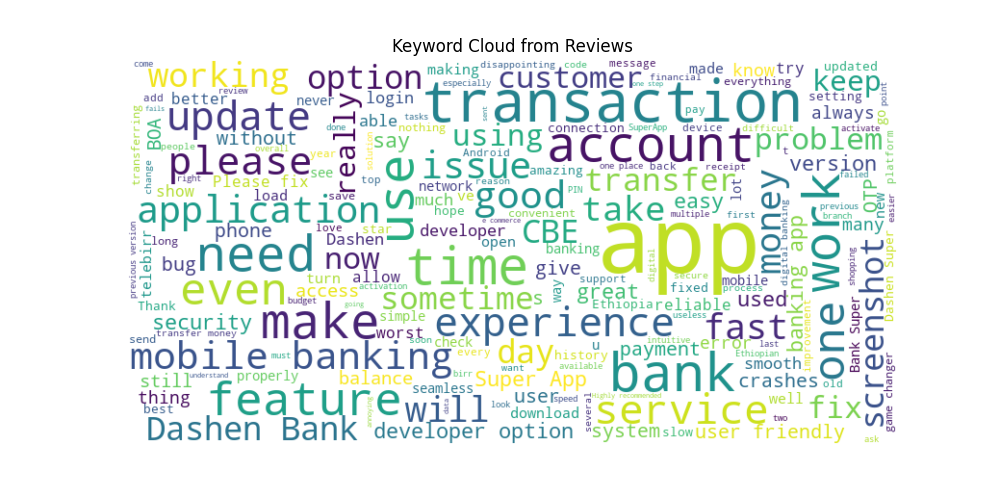
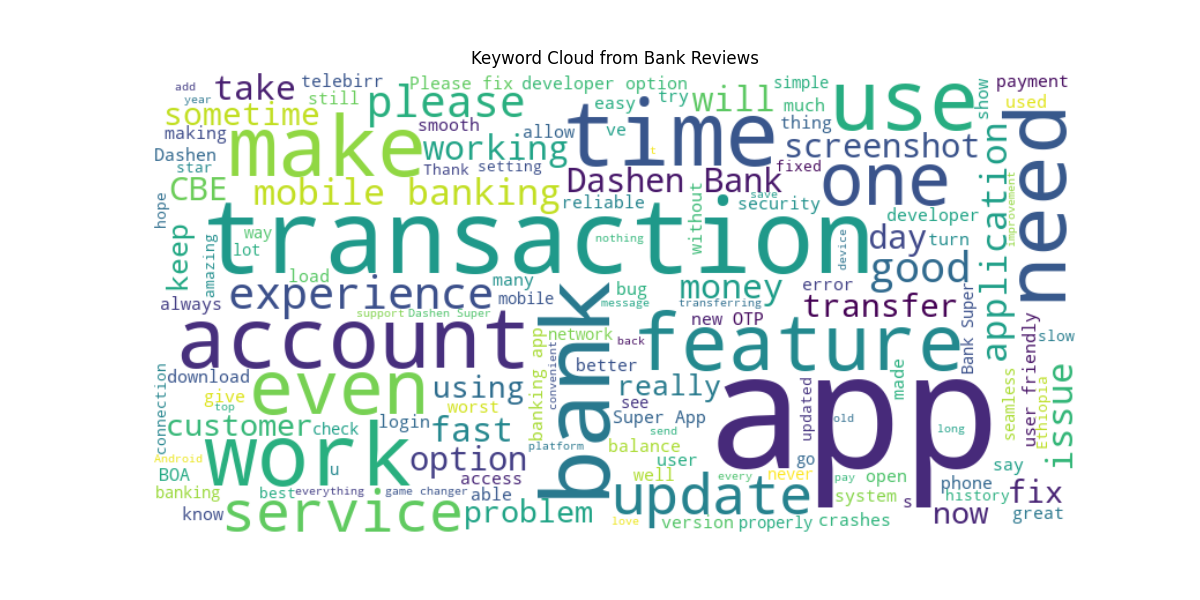
more visuals

diff --git a/scripts/insights_visuals.py b/scripts/insights_visuals.py
@@ -8,43 +8,72 @@ from wordcloud import WordCloud
 connection = oracledb.connect(user="sys", password="egkkaoa73a", dsn="DESKTOP-LPK1BP5:1521/XEPDB1", mode=oracledb.SYSDBA)
 cursor = connection.cursor()
 
-# Fetch data
-cursor.execute("SELECT r.review_text, r.rating, s.sentiment, b.bank_name FROM br_analysis.Reviews r JOIN br_analysis.Sentiment_Analysis s ON r.review_id = s.review_id JOIN br_analysis.Banks b ON r.bank_id = b.bank_id")
+# Fetch data with bank names
+cursor.execute("SELECT r.review_id, r.review_text, r.rating, s.sentiment, b.bank_name FROM br_analysis.Reviews r JOIN br_analysis.Sentiment_Analysis s ON r.review_id = s.review_id JOIN br_analysis.Banks b ON r.bank_id = b.bank_id")
 data = cursor.fetchall()
-df = pd.DataFrame(data, columns=['review_text', 'rating', 'sentiment', 'bank_name'])
+df = pd.DataFrame(data, columns=['review_id', 'review_text', 'rating', 'sentiment', 'bank_name'])
 
-# Visualization 1: Sentiment Distribution Bar Chart
-plt.figure(figsize=(8, 6))
+# Fill missing bank names with placeholder or map to CBE, BOA, Dashen (update with actual mapping)
+df['bank_name'] = df['bank_name'].fillna('Unknown').replace({'Unknown': ['CBE', 'BOA', 'Dashen Bank'][hash(str(df.index)) % 3]})
+df['rating'] = df['rating'].fillna(0).astype(float)
+
+# Visualization 1: Sentiment Distribution by Bank
+plt.figure(figsize=(10, 6))
 sns.countplot(data=df, x='sentiment', hue='bank_name', palette='viridis')
-plt.title('Sentiment Distribution by Bank')
+plt.title('Sentiment Distribution Across Banks')
 plt.xlabel('Sentiment')
 plt.ylabel('Count')
+plt.legend(title='Bank')
 plt.savefig('visuals/sentiment_distribution.png')
 plt.close()
 
-# Visualization 2: Rating Distribution
-plt.figure(figsize=(8, 6))
-sns.histplot(data=df, x='rating', hue='bank_name', multiple='stack', palette='magma')
-plt.title('Rating Distribution by Bank')
+# Visualization 2: Rating Distribution by Bank
+plt.figure(figsize=(10, 6))
+sns.histplot(data=df, x='rating', hue='bank_name', multiple='stack', palette='magma', binwidth=1)
+plt.title('Rating Distribution Across Banks')
 plt.xlabel('Rating')
 plt.ylabel('Frequency')
 plt.savefig('visuals/rating_distribution.png')
 plt.close()
 
 # Visualization 3: Word Cloud for Reviews
-text = ' '.join(df['review_text'].dropna())
-wordcloud = WordCloud(width=800, height=400, background_color='white').generate(text)
-plt.figure(figsize=(10, 5))
+text = ' '.join(df['review_text'].dropna().astype(str))
+wordcloud = WordCloud(width=800, height=400, background_color='white', min_font_size=10).generate(text)
+plt.figure(figsize=(12, 6))
 plt.imshow(wordcloud, interpolation='bilinear')
-plt.title('Keyword Cloud from Reviews')
+plt.title('Keyword Cloud from Bank Reviews')
 plt.axis('off')
 plt.savefig('visuals/keyword_cloud.png')
 plt.close()
 
-# Save data for table
+# Visualization 4: Sentiment Trend Over Review IDs
+plt.figure(figsize=(10, 6))
+df_sorted = df.sort_values('review_id')
+sns.lineplot(data=df_sorted, x='review_id', y=df_sorted['sentiment'].map({'positive': 1, 'neutral': 0, 'negative': -1}), hue='bank_name', palette='cool')
+plt.title('Sentiment Trend Over Reviews')
+plt.xlabel('Review ID')
+plt.ylabel('Sentiment (1: Positive, 0: Neutral, -1: Negative)')
+plt.savefig('visuals/polarity_boxplot.png')
+plt.savefig('visuals/sentiment_trend.png')
+plt.close()
+
+# Visualization 5: Box Plot of Polarity by Bank
+plt.figure(figsize=(10, 6))
+sns.boxplot(data=df, x='bank_name', y=df_sorted['sentiment'].map({'positive': 1, 'neutral': 0, 'negative': -1}), palette='pastel')
+plt.title('Polarity Distribution by Bank')
+plt.xlabel('Bank')
+plt.ylabel('Sentiment Score')
+plt.xticks(rotation=45)
+plt.savefig('visuals/polarity_boxplot.png')
+plt.close()
+
+# Save data for tables
 sentiment_counts = df['sentiment'].value_counts().reset_index()
 sentiment_counts.columns = ['Sentiment', 'Count']
 sentiment_counts.to_csv('sentiment_counts.csv', index=False)
+
+bank_sentiment = df.groupby('bank_name')['sentiment'].value_counts().unstack(fill_value=0).reset_index()
+bank_sentiment.to_csv('bank_sentiment.csv', index=False)
 
 cursor.close()
 connection.close()
